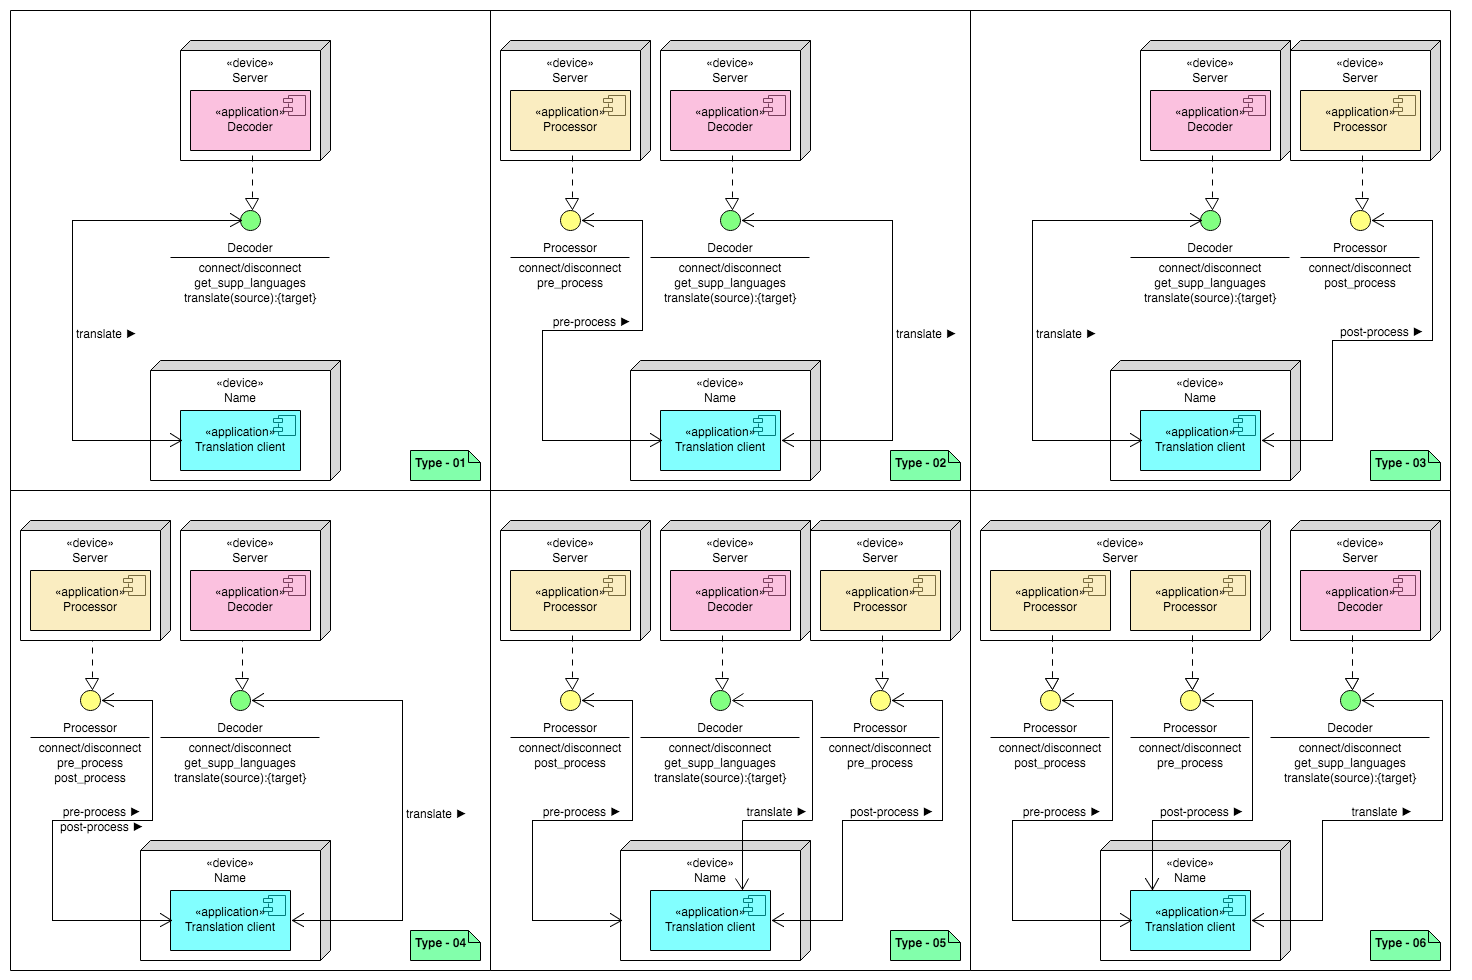
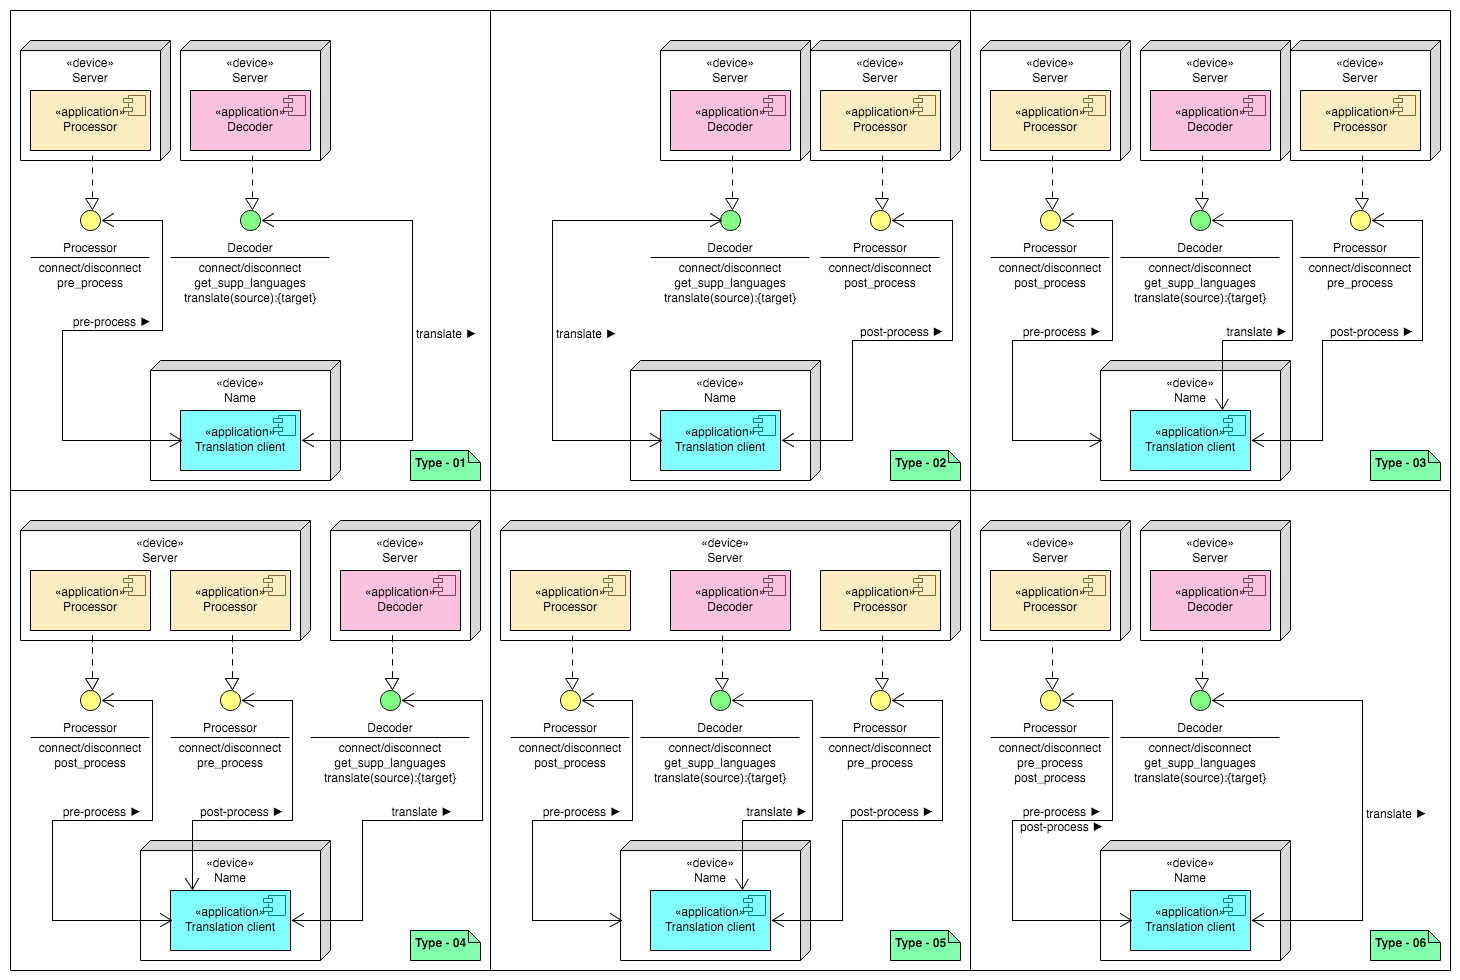
Working on the manual and the diagrams.

diff --git a/README.md b/README.md
@@ -701,7 +701,7 @@ The results show that the developed LM model trie representations are highly com
 ##General design
 This section describes the ultimate and the current designs of the provided software. Note that the designs below are schematic only and the actual implementation might deviate. Yet, they are sufficient to reflect the overall structure of the software.
 
-Note that, the design of the system with text pre/post-processing is given at the very end of this section and is not reflected in the ultimate design diagram. The latter is done due to the fact that the text pre/post-processing, although an important part of the translation proces, is currently considered to be an optional task.
+Note that, the design of the system with text pre/post-processing is given at the very end of this section and is not reflected in the ultimate design diagram. The latter is done due to the fact that the text pre/post-processing, although an important part of the translation process, is currently considered to be an optional task.
 
 We first provide the ultimate design we are going to work for and then give some insights into the currently implemented version thereof.
 
@@ -784,25 +784,24 @@ An example sequence diagram with several load balancing scenarios can be found b
 ![The Load Balancer sequences Image ](./doc/models/balancer/balancer_sequence.png "Load Balancer sequences")
 
 ####Text pre/post-processing servers
-There can be multiple instances of the text pre/post- processing servers and the configurations in which the system can be run are given on the image below. Note that, any pre/post-processing server might support multiple languages and even language detecton for pre-processing.
+There can be multiple instances of the text pre/post- processing servers and the configurations in which the system can be run are given on the image below. Note that, any pre/post-processing server might support multiple languages and even language detection for pre-processing.
 ![The Text Processor deployments Image ](./doc/models/deployment/processor_first.png "Text Processor deployments")
 Further we shall briefly describe some of the possible translation system deployment configurations, employing the pre/post- processor.
 
-##### Type - 01: No pre/post-processing
-The translation system can be run as is, without any pre- or post- processor. In this case the provided source text is supposed to be tokenized (splitting the language words and punctuation marks with ASCII spaces), lower cased (turning the text into the lowercase), unifyied (unifying the text by substituting longer utf-8 symbols with shorter ones), and there must be just one sentence per source text file line. The resulting target text will be also tokenized and lowercased with just one sentence per line.
+##### Type - 01: Only pre-processing, different physical servers
+This is the situation when only the pre-processing is enabled. Whether the pre-processing script supports language detection will depend on the concrete pre-processing script implementation. If not, and it is requested, then an error will be reported by the processing server. The resulting target text will be tokenized and lower cased with just one sentence per line.
 
-##### Type - 02: Only pre-processing
-This is the situation when only the pre-processing is enabled. Whether the pre-processing script supports language detection will depend on the concrete pre-processing script implementation. If not, and it is requested, then an error will be reported by the processing server. The resulting target text will be tokenized and lowercased with just one sentence per line.
+##### Type - 02: Only post-processing, different physical servers
+This is the situation when only the post-processing is enabled. In this case the provided source text is supposed to be tokenized (splitting the language words and punctuation marks with ASCII spaces), lower cased (turning the text into the lowercase), unified (unifying the text by substituting longer UTF-8 symbols with shorter ones), and there must be just one sentence per source text file line. The resulting target text will de untokenized and upper cased but one can still expect to get one target sentence per line in the output.
 
-##### Type - 03: Only post-processing
-This is the situation when only the post-processing is enabled. In this case the provided source text is supposed to be tokenized (splitting the language words and punctuation marks with ASCII spaces), lower cased (turning the text into the lowercase), unifyied (unifying the text by substituting longer utf-8 symbols with shorter ones), and there must be just one sentence per source text file line. The resulting target text will de untokenized and uppercased but one can still expect to get one target sentence per line in the output.
-
-##### Type - 04: Single pre/post-processing application and server
+##### Type - 03: Pre- and post-processing, different physical servers
 This is the situation when both pre- and post-processing are enabled, and both are run within the same application on a server separate.
 
-##### Type - 05: 
+##### Type - 04: Pre- and post-processing, one physical server
 
-##### Type - 06: 
+##### Type - 05: All on one server
+
+##### Type - 06: Pre- and post-processing, one application, one physical server
 
 ##Software details
 In this section we provide some additional details on the structure of the provided software. We shall begin with the common packages and then move on to the binary specific ones. The discussion will not go into details and will be kept at the level of source file folder, explaining their content.
